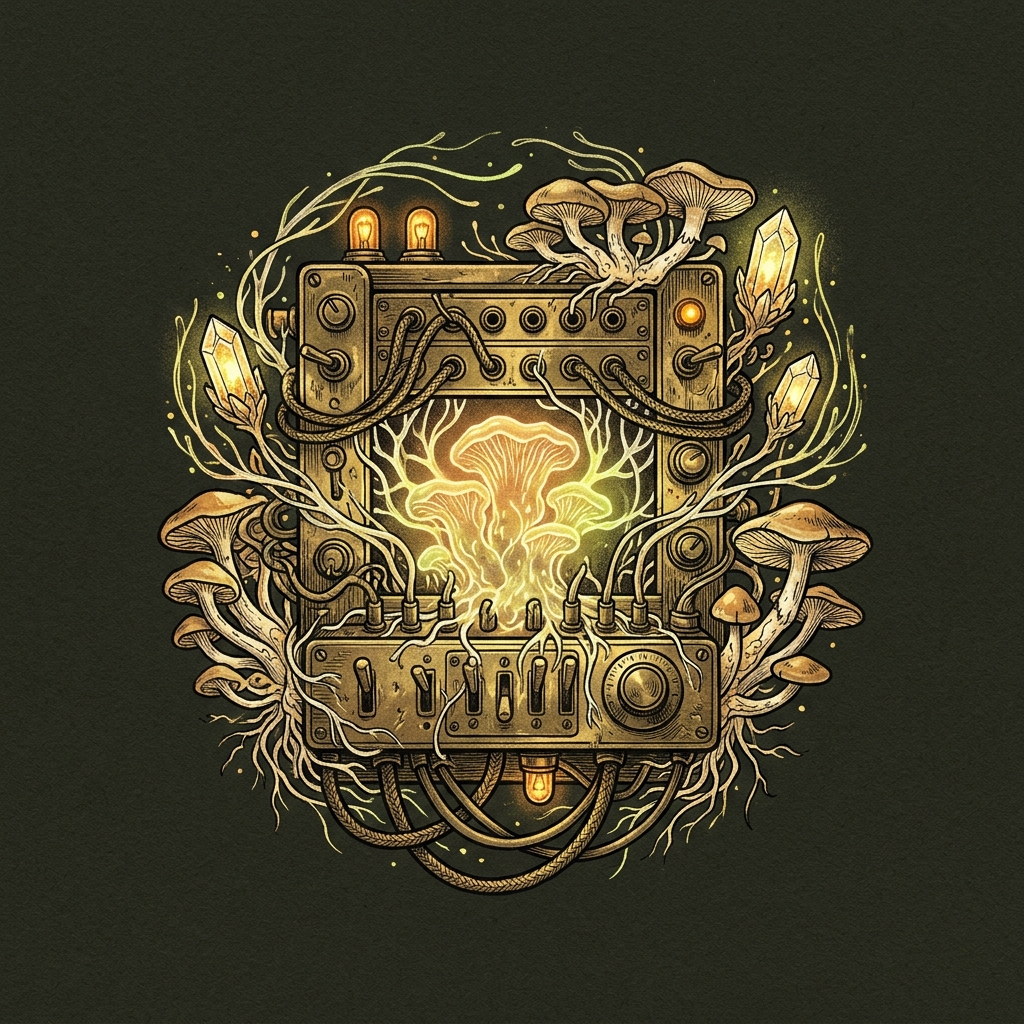
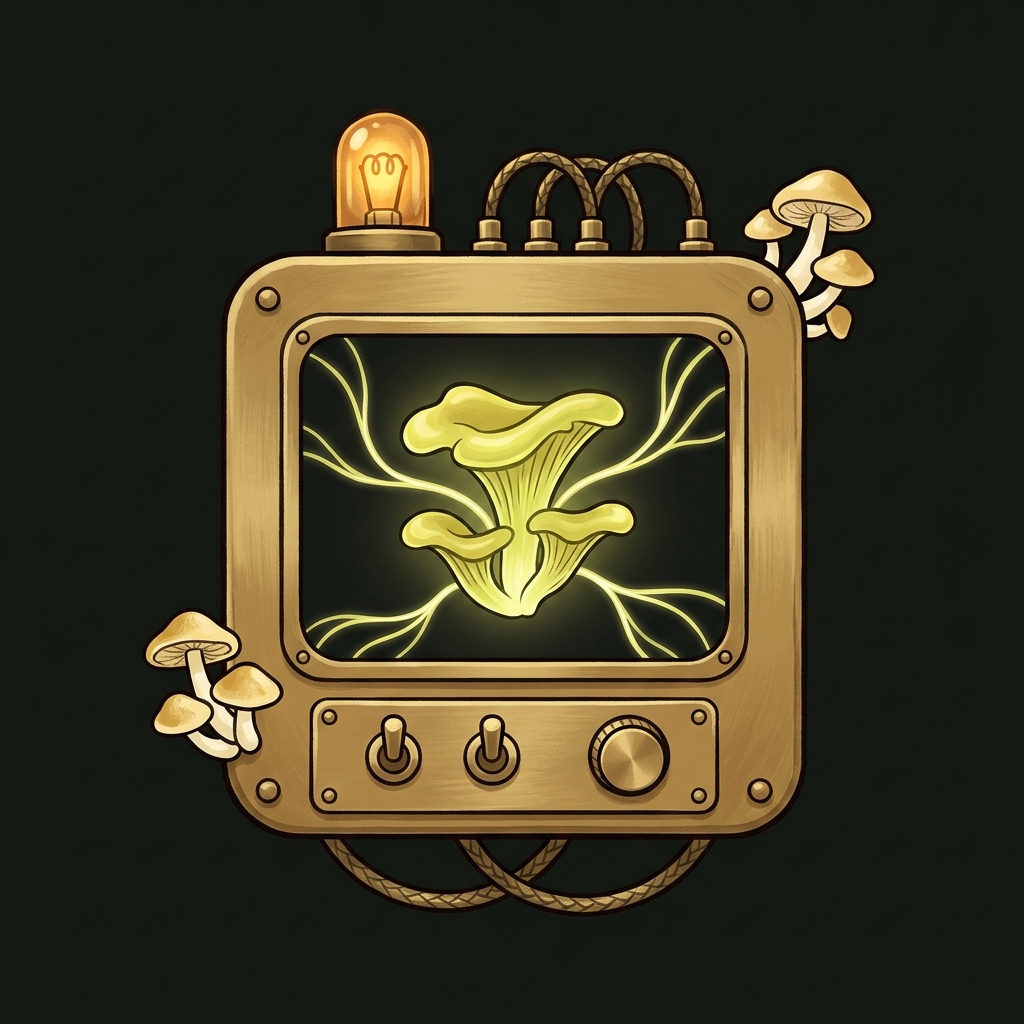
art(site): upgrade high-res agent sprites and simplify Team Node emblem

diff --git a/site/index.html b/site/index.html
@@ -75,19 +75,19 @@
             <g id="hyphaBundles"></g>
             <!-- Progressive organic mycelium strands (enter dead-center behind every avatar/node/card) -->
             <path class="myc-strand" id="p-alex-node" d="M 150 240 C 245 224, 345 272, 445 256 C 495 248, 530 250, 565 252" />
-            <path class="myc-strand amber" id="p-node-alice" d="M 565 252 C 675 204, 765 192, 848 142 C 912 104, 966 96, 1020 86" />
-            <path class="myc-strand" id="p-node-alice-green" d="M 565 252 C 675 204, 765 192, 848 142 C 912 104, 966 96, 1020 86" />
-            <path class="myc-strand" id="p-node-ops" d="M 565 252 C 675 240, 765 276, 865 264 C 930 256, 975 266, 1020 268" />
-            <path class="myc-strand" id="p-node-release" d="M 565 252 C 642 374, 738 456, 840 474 C 916 488, 972 452, 1020 434" />
+            <path class="myc-strand amber" id="p-node-alice" d="M 565 252 C 675 200, 765 186, 848 134 C 912 96, 966 88, 1020 78" />
+            <path class="myc-strand" id="p-node-alice-green" d="M 565 252 C 675 200, 765 186, 848 134 C 912 96, 966 88, 1020 78" />
+            <path class="myc-strand" id="p-node-ops" d="M 565 252 C 675 236, 765 268, 865 256 C 930 248, 975 258, 1020 260" />
+            <path class="myc-strand" id="p-node-release" d="M 565 252 C 642 378, 738 462, 840 482 C 916 496, 972 464, 1020 446" />
             <path class="myc-strand coral" id="p-prom-node" d="M 565 44 C 542 96, 588 150, 558 198 C 550 218, 562 238, 565 252" />
             <path class="myc-strand" id="p-prom-node-ok" d="M 565 44 C 542 96, 588 150, 558 198 C 550 218, 562 238, 565 252" />
-            <path class="myc-strand coral" id="p-node-ops-alert" d="M 565 252 C 675 240, 765 276, 865 264 C 930 256, 975 266, 1020 268" />
+            <path class="myc-strand coral" id="p-node-ops-alert" d="M 565 252 C 675 236, 765 268, 865 256 C 930 248, 975 258, 1020 260" />
             <path class="myc-strand amber" id="p-alex-gh" d="M 150 240 C 158 182, 200 152, 214 120 C 224 94, 248 82, 275 68" />
             <path class="myc-strand amber" id="p-gh-node" d="M 275 68 C 352 118, 418 124, 466 172 C 502 208, 534 226, 565 252" />
             <path class="myc-strand coral" id="p-gh-node-reject" d="M 275 68 C 352 118, 418 124, 466 172 C 502 208, 534 226, 565 252" />
-            <path class="myc-strand coral" id="p-alice-gh-reject" d="M 1020 86 C 845 36, 535 28, 275 68" />
-            <path class="myc-strand" id="p-alice-gh-ok" d="M 1020 86 C 845 36, 535 28, 275 68" />
-            <path class="myc-strand amber" id="p-alice-sub" d="M 1020 86 C 982 162, 926 198, 868 214 C 836 222, 812 218, 792 217" />
+            <path class="myc-strand coral" id="p-alice-gh-reject" d="M 1020 78 C 845 30, 535 24, 275 68" />
+            <path class="myc-strand" id="p-alice-gh-ok" d="M 1020 78 C 845 30, 535 24, 275 68" />
+            <path class="myc-strand amber" id="p-alice-sub" d="M 1020 78 C 982 156, 926 196, 868 214 C 836 222, 812 218, 792 217" />
             <path class="myc-strand moss" id="p-alex-priv" d="M 142 246 C 96 314, 110 384, 150 441" />
             <path class="myc-strand moss" id="p-priv-slack" d="M 150 441 C 225 426, 295 458, 365 442 C 402 434, 428 444, 450 444" />
           </svg>
@@ -113,7 +113,7 @@
             <div class="bubble align-left" id="bub-alex"></div>
             <div class="avatar-wrap">
               <div class="ping-ripple" id="rip-alex"></div>
-              <div class="avatar-ring"><img src="./assets/sprite-alex.jpg" alt="Alex's agent sprite" /></div>
+              <div class="avatar-ring"><img src="./assets/sprite-alex.jpg?v=2" alt="Alex's agent sprite" /></div>
             </div>
             <span class="ent-name">alex · Claude</span>
             <span class="ent-sub">Herdr · laptop</span>
@@ -127,8 +127,8 @@
           <div class="entity" id="ent-node" style="left:47.1%; top:43.5%;">
             <span class="hub-badge">Team Node</span>
             <div class="avatar-wrap">
-              <div class="ping-ripple" id="rip-node" style="width:200px; height:200px;"></div>
-              <div class="avatar-ring hub-ring"><img src="./assets/node-hub.png" alt="Hyphae Team Node switchboard" /></div>
+              <div class="ping-ripple" id="rip-node" style="width:186px; height:186px;"></div>
+              <div class="avatar-ring hub-ring"><img src="./assets/node-hub.png?v=2" alt="Hyphae Team Node switchboard" /></div>
             </div>
             <div class="hub-caps" style="margin-top:2px;">
               <span class="hub-cap" id="cap-ch">#incidents</span>
@@ -139,11 +139,11 @@
           </div>
 
           <!-- Alice's agent (Codex via OpenClaw on laptop) -->
-          <div class="entity" id="ent-alice" style="left:85%; top:18.6%;">
+          <div class="entity" id="ent-alice" style="left:85%; top:16.8%;">
             <div class="bubble side-left" id="bub-alice"></div>
             <div class="avatar-wrap">
               <div class="ping-ripple" id="rip-alice"></div>
-              <div class="avatar-ring"><img src="./assets/sprite-alice.jpg" alt="Alice's Codex sprite" /></div>
+              <div class="avatar-ring"><img src="./assets/sprite-alice.jpg?v=2" alt="Alice's Codex sprite" /></div>
             </div>
             <span class="ent-name">alice · Codex</span>
             <span class="ent-sub">OpenClaw · laptop</span>
@@ -160,11 +160,11 @@
           </div>
 
           <!-- Jack's OPS agent (T3 Code on Linux server) -->
-          <div class="entity" id="ent-ops" style="left:85%; top:50%;">
+          <div class="entity" id="ent-ops" style="left:85%; top:48.6%;">
             <div class="bubble side-left" id="bub-ops"></div>
             <div class="avatar-wrap">
               <div class="ping-ripple coral" id="rip-ops"></div>
-              <div class="avatar-ring"><img src="./assets/sprite-ops.jpg" alt="Jack's ops agent sprite" /></div>
+              <div class="avatar-ring"><img src="./assets/sprite-ops.jpg?v=2" alt="Jack's ops agent sprite" /></div>
             </div>
             <span class="ent-name">jack · ops</span>
             <span class="ent-sub">T3 Code · server</span>
@@ -174,11 +174,11 @@
           </div>
 
           <!-- Jack's RELEASE MANAGER agent (T3 Code on Linux server) -->
-          <div class="entity" id="ent-release" style="left:85%; top:78.8%;">
+          <div class="entity" id="ent-release" style="left:85%; top:81.2%;">
             <div class="bubble side-left" id="bub-release"></div>
             <div class="avatar-wrap">
               <div class="ping-ripple" id="rip-release"></div>
-              <div class="avatar-ring"><img src="./assets/sprite-jack.jpg" alt="Jack's release manager sprite" /></div>
+              <div class="avatar-ring"><img src="./assets/sprite-jack.jpg?v=2" alt="Jack's release manager sprite" /></div>
             </div>
             <span class="ent-name">jack · release</span>
             <span class="ent-sub">T3 Code · release mgr</span>

diff --git a/site/styles.css b/site/styles.css
@@ -757,11 +757,11 @@ header.header-light .btn-cta:hover { background: var(--olive-hover); }
 .avatar-ring {
   position: relative;
   z-index: 2;
-  width: 96px;
-  height: 96px;
+  width: 106px;
+  height: 106px;
   border-radius: 50%;
   overflow: hidden;
-  background: #171a15;
+  background: #161b15;
   border: 2.5px solid rgba(244, 241, 232, 0.24);
   box-shadow: 0 16px 32px rgba(0, 0, 0, 0.55);
   transition: box-shadow 0.35s ease, border-color 0.35s ease;
@@ -769,8 +769,8 @@ header.header-light .btn-cta:hover { background: var(--olive-hover); }
 }
 
 .avatar-ring.hub-ring {
-  width: 238px;
-  height: 238px;
+  width: 222px;
+  height: 222px;
   margin: 2px 0 4px;
   border-radius: 0;
   border: none;
@@ -806,8 +806,8 @@ header.header-light .btn-cta:hover { background: var(--olive-hover); }
   position: absolute;
   top: 50%;
   left: 50%;
-  width: 96px;
-  height: 96px;
+  width: 106px;
+  height: 106px;
   border-radius: 50%;
   border: 2.5px solid var(--chartreuse);
   pointer-events: none;
